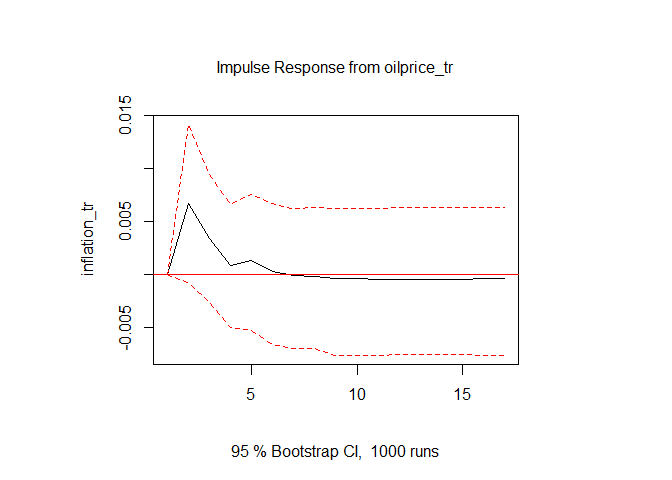
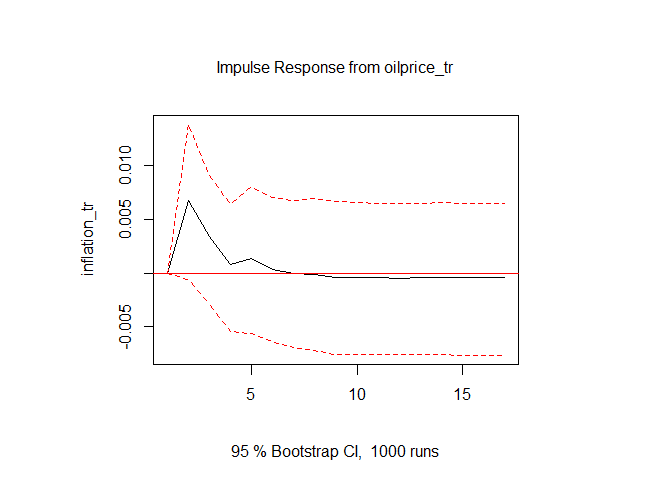
update to readme

diff --git a/README.md b/README.md
@@ -19,15 +19,69 @@ pacman::p_load(fredr, tidyverse, lubridate, tsibble, dplyr, tseries, grid,gridEx
 
 ## 1. Select the specification of the deterministic component.
 
+``` r
+df1_tidy <- df1 |> dplyr::select(date,FFR, lCPI, lGDP, lM1, lExchange, lOil, infl, realM1) |> pivot_longer(cols = c(FFR, lCPI, lGDP, lM1, lExchange, lOil, infl,realM1), names_to = "Variable", values_to = "Value") |> arrange(date)
+
+gggg <- df1_tidy |> ggplot() +
+    geom_line(aes(x = date, y = Value), alpha = 0.8, 
+    size = 0.5) + 
+    theme_bw() + theme(legend.position = "none") + labs(x = "", 
+    y = "Prices", title = "TRI of Brics Countries", subtitle = "Total Return Index using net dividends reinvested", 
+    caption = "Note:\nBloomberg data used") +
+    facet_wrap(~Variable, scales = "free_y") 
+```
+
 ## 2. Pre-test the variables to conclude that they are (or may be) *I*(1)
 
 ### 2.1.Augmented Dickey-Fuller (ADF) test for unit roots
 
+``` r
+adf_interestrate_tr <- ur.df(interestrate_tr, type = "trend", selectlags = c("AIC")) #fail to reject null of no unit root
+adf_price_tr <- ur.df(price_tr, type = "trend", selectlags = c("AIC")) #fail to reject null of no unit root
+adf_realGDP_tr <- ur.df(realGDP_tr, type = "trend", selectlags = c("AIC")) # fail ...
+adf_oilprice_tr <- ur.df(oilprice_tr, type = "trend", selectlags = c("AIC")) #
+adf_interestrate_tr <- ur.df(interestrate_tr, type = "trend", selectlags = c("AIC"))
+adf_monetaryaggregate_tr  <- ur.df(monetaryaggregate_tr, type = "trend", selectlags = c("AIC"))
+```
+
 ### 2.2.Augmented Dickey-Fuller (ADF) test for order of integration
+
+``` r
+adf_D_interestrate_tr <- ur.df(D_interestrate_tr, selectlags = c("AIC")) #I(1)
+adf_D_price_tr <- ur.df(D_price_tr, selectlags = c("AIC")) #fail to reject null of no unit root only at the 1% sign level #I(2)
+adf_D_realGDP_trr <- ur.df(D_realGDP_tr, selectlags = c("AIC")) #I(1)
+adf_D_exchangerate_tr <- ur.df(D_exchangerate_tr, selectlags = c("AIC")) #I(1)
+adf_D_oilprice_tr <- ur.df(D_oilprice_tr, selectlags = c("AIC")) #I(1)
+adf_D_monetaryaggregate_tr <- ur.df(D_monetaryaggregate_tr, selectlags = c("AIC")) #fail to reject null of no unit root only at the 1% sign level
+
+## Now lets deal with the problem of the monetary aggregate I(2) be transforming it to the real monetary aggregate (mt - pt) and to inflation (change in price)
+
+adf_real_monetaryaggregate_tr <- ur.df(real_monetaryaggregate_tr, type = "trend", selectlags = c("AIC")) #fail to reject null of no unit root
+
+adf_D_real_montaryaggregate_tr <- ur.df(D_real_monetaryaggregate_tr , selectlags = c("AIC")) #reject the null, Therefore is I(1)
+
+adf_inflation_tr <- ur.df(inflation_tr,selectlags = c("AIC")) #fail to reject the null of no unit root
+
+D_adf_inflation_tr <- ur.df(D_inflation_tr,selectlags = c("AIC")) #reject the null. Thus inflation is I(1)
+```
 
 ## 3. Estimate the unrestricted VAR in levels and check the adequacy of the model specification.
 
+``` r
+VAR1 <- cbind(real_monetaryaggregate_tr, interestrate_tr, realGDP_tr, inflation_tr, exchangerate_tr, oilprice_tr)
+colnames(VAR1) <- cbind("RealMonetaryAggregate", "InterestRate", "RealGDP", "Inflation", "ExchangeRate", "OilPrice")
+#In the same order as the A matrix
+
+
+VAR2 <- cbind(realGDP_tr, oilprice_tr, interestrate_tr, inflation_tr,exchangerate_tr ,real_monetaryaggregate_tr)
+#In a similar order to the cointegration analysis of the restricted system
+```
+
 ### 3.1.Determine the order of lag
+
+``` r
+infocrit <- VARselect(VAR2, lag.max = 4, type = "trend") ##Similar results as in the paper. Lag length of 2
+```
 
 ### 3.2.Check the model specification adequacy of the estimated unrestricted VAR in levels
 
@@ -38,9 +92,51 @@ heteroscedasticity 2.Requires: i.i.d. errors with finite variance
 3.Hence the following is unacceptable: autocorrelated residuals,
 time-varying parameters, structural breaks
 
+``` r
+VAR_unrestricted <- VAR(VAR2, p = 2, type = "trend")
+
+roots_stability <- roots(VAR_unrestricted) ##Shows eigenvalues corresponding to stability
+```
+
+``` r
+ varUR.serial <- serial.test(VAR_unrestricted, lags.pt = 17) ## Fail to reject null of multivariate serial correlation
+
+
+ varUR.serial2 <- serial.test(VAR_unrestricted, type = "BG", lags.bg = 16)  ## Fail to reject null of multivariate serial correlation
+ 
+ 
+ varUR.arch <- arch.test(VAR_unrestricted, lags.multi = 4,multivariate.only = F) ##Evidence of heteroskedasticity. Look individually
+ 
+ varUR.norm <- normality.test(VAR_unrestricted, multivariate.only = F) ## Evidence of non-normal errors. Look individually
+
+ 
+ #plot(varUR.serial)
+
+reccusum_test <- stability(VAR_unrestricted,type = "Rec-CUSUM") #In time series analysis, the CUSUM statistics use the sequence of residual deviations from a model to indicate whether the autoregressive model is misspecified.
+
+ #plot(reccusum_test)
+
+
+fluctuation_test <- stability(VAR_unrestricted,type = "fluctuation") ## Test for unstable parameter fluctuations. Both these
+
+ #plot(fluctuation_test)
+```
+
 ## 4.Impose the number of cointegrating relationships *r* and execute normalization as necessary.
 
 ### 4.1. Determine the number of cointegrating relationships
+
+``` r
+Johansen_trace <- ca.jo(VAR2, type="trace", K=2, ecdet=c("trend"), spec="longrun")
+
+# test stat < CV where r <=2 : reject null of no cointegrating relationships
+
+Johansen_eig<- ca.jo(VAR2, type="eigen", K=2, ecdet=c("trend"), spec="longrun")
+
+# test stat > CV for r=0 and r <=1. Hence, indicative of 2 cointegrating relationships. Not the same as determined by @cologni2008
+
+summary(Johansen_eig)
+```
 
     ## 
     ## ###################### 
@@ -117,6 +213,14 @@ time-varying parameters, structural breaks
     ## real_monetaryaggregate_tr.d                  0.029081460 -4.701294e-14
 
 ### 4.2. Esitmate the cointegrating relationships
+
+``` r
+VECModelNew <- VECM(VAR2,lag=2,r=2, estim="ML", include=c("none"),LRinclude =c("both") )
+
+
+
+summary(VECModelNew)
+```
 
     ## #############
     ## ###Model VECM 
@@ -199,6 +303,49 @@ time-varying parameters, structural breaks
 
 ### 4.3. Construct the (6x6) long-run impact matrix *Π* and specify the restricted B matrix
 
+``` r
+Johansen_trace_2 <- ca.jo(VAR1, type="trace", K=2, ecdet=c("trend"), spec="longrun")
+Johansen_eig_2<- ca.jo(VAR1, type="eigen", K=2, ecdet =c("trend"), spec="longrun")
+
+beta_transpose <- Johansen_eig_2@V #cointegrating vectors
+alpha <- Johansen_eig_2@W #cointegrating loadingcoeffs
+
+#Purge the time trend and labels to form a (6X6) matrix
+beta_transpose1 <- beta_transpose[-7,-7]
+alpha1 <- alpha[-7,-7]
+
+colnames(beta_transpose1)<-NULL
+rownames(beta_transpose1) <- NULL
+
+colnames(alpha1)<-NULL
+rownames(alpha1) <- NULL
+
+# The matrix of interest is (Pi) = alpha * beta'
+
+Pi <- t(beta_transpose1)*alpha1
+
+# Construct B matrix to impose the set of over-identifying restrictions on its coefficients as done by @Cologni2008
+
+Br1 <- c(1,1,0,1,0,0)
+Br2 <- c(0,1,1,1,1,1)
+Br3 <- c(0,0,1,1,1,1)   # order:m, r, y, p, e, o
+Br4 <- c(0,0,0,1,1,1)
+Br5 <- c(0,0,0,0,1,1)
+Br6 <- c(0,0,0,0,0,1)
+
+
+
+B <- rbind(Br1, Br2, Br3, Br4, Br5, Br6)
+
+colnames(B)<-NULL
+rownames(B) <- NULL
+
+#In order to identify the covariance matrix, I impose the restricted B matrix onto long-run impact matrix $\Pi$ 
+
+Sigma_u_matrix <- Pi*B
+Sigma_u_matrix
+```
+
     ##             [,1]         [,2]        [,3]         [,4]          [,5]
     ## [1,] -0.04410625 -0.000462459 0.000000000  0.008050753  0.0000000000
     ## [2,]  0.00000000  0.046860532 0.094125049 54.733081775 -0.0790338175
@@ -214,6 +361,18 @@ time-varying parameters, structural breaks
     ## [5,] -0.0029992261
     ## [6,] -0.0009050643
 
+``` r
+coeffs <- summary(VECModelNew)$coefMat
+
+ect_coeffs <- coeffs[grep("ECT", rownames(coeffs)),]
+
+#now we have a matrix of all of the ECT and variables
+
+
+#need covariance of ecm terms in matrix 
+cov(ect_coeffs)
+```
+
     ##             Estimate  Std. Error   t value    Pr(>|t|)
     ## Estimate    6.931416  1.85974271 3.6866579 -0.17793701
     ## Std. Error  1.859743  0.51607620 1.0251883 -0.03700606
@@ -221,10 +380,30 @@ time-varying parameters, structural breaks
     ## Pr(>|t|)   -0.177937 -0.03700606 0.2026052  0.08479717
 
 ``` r
+#blrtest(z =Johansen_eig_2 , H = , r = 2)
+```
+
+``` r
+VARModelRestricted <- VAR(VAR1, p=2, type = "trend", lag.max = 4)
+
+covariancematrix <- summary(VARModelRestricted)$covres
+```
+
+``` r
+VECM_levels <- vec2var(Johansen_eig, r=1)
+
+VECM <- cajorls(Johansen_eig, r = 1)
+```
+
+``` r
  vecm.fevd <- fevd(VECM_levels) #forecast error variance decomposition
  vecm.norm <- normality.test(VECM_levels)
  vecm.arch <- arch.test(VECM_levels)
  vecm.serial <- serial.test(VECM_levels)
+```
+
+``` r
+#covariancematrix*B_Matrix*t(B_Matrix)
 ```
 
 We then obtain a single entry for each row, which we can create our
@@ -234,4 +413,49 @@ short-run error vector from.
 ErrorVector_U <- c(0.0001328802, 0.07138726, 2.804883e-05, 0.753182, 0.01135468,  0.02108534)
 ```
 
-![](README_files/figure-markdown_github/unnamed-chunk-28-1.png)![](README_files/figure-markdown_github/unnamed-chunk-28-2.png)![](README_files/figure-markdown_github/unnamed-chunk-28-3.png)![](README_files/figure-markdown_github/unnamed-chunk-28-4.png)![](README_files/figure-markdown_github/unnamed-chunk-28-5.png)
+``` r
+M_IRF <- irf(VECM_levels, impulse = "oilprice_tr", response = "real_monetaryaggregate_tr",
+             n.ahead = 16, ortho = FALSE, runs = 1000)
+IR_IRF <- irf(VECM_levels, impulse = "oilprice_tr", response = "interestrate_tr",
+             n.ahead = 16, ortho = FALSE, runs = 1000)
+GDP_IRF <- irf(VECM_levels, impulse = "oilprice_tr", response = "realGDP_tr",
+             n.ahead = 16, ortho = FALSE, runs = 1000)
+I_IRF <- irf(VECM_levels, impulse = "oilprice_tr", response = "inflation_tr",
+             n.ahead = 16, ortho = FALSE, runs = 1000)
+ER_IRF <- irf(VECM_levels, impulse = "oilprice_tr", response = "exchangerate_tr",
+             n.ahead = 16, ortho = FALSE, runs = 1000)
+
+M <- plot(M_IRF)
+```
+
+![](README_files/figure-markdown_github/unnamed-chunk-28-1.png)
+
+``` r
+I <- plot(IR_IRF)
+```
+
+![](README_files/figure-markdown_github/unnamed-chunk-28-2.png)
+
+``` r
+G <- plot(GDP_IRF)
+```
+
+![](README_files/figure-markdown_github/unnamed-chunk-28-3.png)
+
+``` r
+In <- plot (I_IRF)
+```
+
+![](README_files/figure-markdown_github/unnamed-chunk-28-4.png)
+
+``` r
+E <- plot(ER_IRF)
+```
+
+![](README_files/figure-markdown_github/unnamed-chunk-28-5.png)
+
+``` r
+#plotIRFGrid(irf, eb, indexes, type, bands)
+
+#grid.arrange(M, I, G, In, E)
+```
